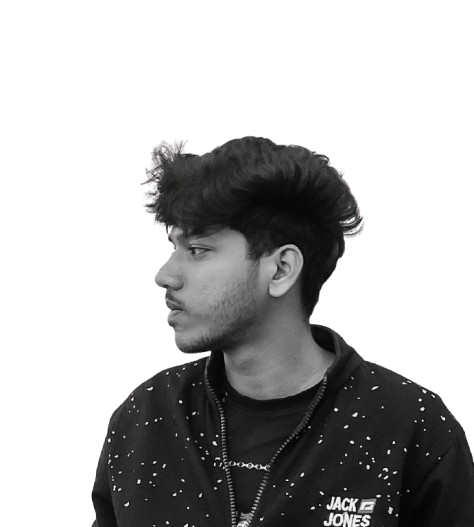
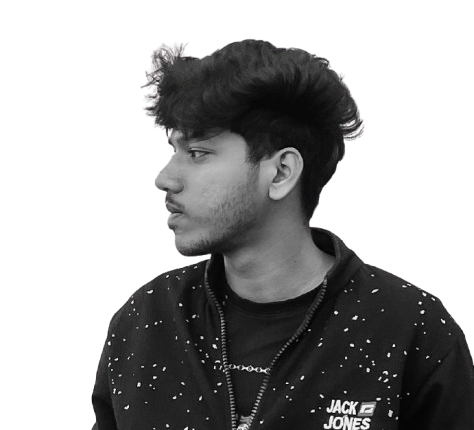
css fix

diff --git a/App.tsx b/App.tsx
@@ -1,5 +1,5 @@
 
-import React, { useEffect } from 'react';
+import React, { useEffect, useRef, useState } from 'react';
 import Navbar from './components/Navbar';
 import Hero from './sections/Hero';
 import About from './sections/About';
@@ -9,6 +9,9 @@ import ScrollReveal from './components/ScrollReveal';
 import Lenis from 'lenis';
 
 const App: React.FC = () => {
+  const [isHeaderVisible, setIsHeaderVisible] = useState(true);
+  const heroRef = useRef<HTMLElement>(null);
+
   useEffect(() => {
     const lenis = new Lenis({
       duration: 1.2,
@@ -25,8 +28,20 @@ const App: React.FC = () => {
 
     (window as any).lenis = lenis;
 
+    const handleScroll = () => {
+      if (heroRef.current) {
+        const heroHeight = heroRef.current.offsetHeight;
+        const scrollPosition = window.scrollY;
+        // Hide header as soon as we scroll past the hero section (minus some buffer)
+        setIsHeaderVisible(scrollPosition < heroHeight - 80);
+      }
+    };
+
+    window.addEventListener('scroll', handleScroll);
+
     return () => {
       lenis.destroy();
+      window.removeEventListener('scroll', handleScroll);
     };
   }, []);
 
@@ -70,7 +85,7 @@ const App: React.FC = () => {
 
       {/* Main Sections */}
       <main className="flex-1">
-        <section id="hero" className="min-h-[calc(100dvh-80px)] lg:h-auto flex items-center lg:items-start px-6 md:px-12 pt-16 lg:pt-0 pb-12 md:pb-24 overflow-hidden">
+        <section ref={heroRef} id="hero" className="min-h-[calc(100dvh-80px)] lg:h-auto flex items-center px-6 md:px-12 pt-16 lg:pt-0 pb-12 md:pb-24 overflow-hidden">
           <ScrollReveal className="w-full">
             <Hero />
           </ScrollReveal>
@@ -99,7 +114,7 @@ const App: React.FC = () => {
         <div className="flex gap-8">
           <a href="https://linkedin.com/in/zahirshaikhedu" target="_blank" className="hover:text-white transition-colors">LinkedIn</a>
           <a href="https://github.com/zahirshaikh" target="_blank" className="hover:text-white transition-colors">GitHub</a>
-          <a href="https://x.com/zahirshaikh" target="_blank" className="hover:text-white transition-colors">X</a>
+          <a href="https://x.com/zahirshaikh_" target="_blank" className="hover:text-white transition-colors">X</a>
         </div>
         <div className="text-center">
           &copy; {new Date().getFullYear()} Zahir Shaikh — .NET Fullstack Engineer

diff --git a/sections/Hero.tsx b/sections/Hero.tsx
@@ -2,9 +2,9 @@ import React from "react";
 
 const Hero: React.FC = () => {
   return (
-    <div className="w-full max-w-7xl mx-auto px-8 md:px-16 grid grid-cols-1 lg:grid-cols-2 items-center lg:items-end gap-12 lg:gap-8 pt-0 pb-10 lg:py-0">
+    <div className="w-full max-w-7xl mx-auto px-8 md:px-16 grid grid-cols-1 lg:grid-cols-2 items-center gap-12 lg:gap-8 pt-0 pb-10 lg:py-0">
       {/* Left Column: Text */}
-      <div className="flex flex-col lg:-mt-12 animate-in fade-in slide-in-from-left-8 duration-1000">
+      <div className="flex flex-col animate-in fade-in slide-in-from-left-8 duration-1000">
         <div className="space-y-1">
           <p className="text-[10px] uppercase tracking-[0.5em] text-black/40 font-semibold mb-4">
             Fullstack Engineer
@@ -33,7 +33,7 @@ const Hero: React.FC = () => {
       </div>
 
       {/* Right Column: Your Portrait */}
-      <div className="relative lg:-mt-12 w-full flex items-center justify-center lg:justify-end animate-in fade-in zoom-in-95 duration-1000 delay-300">
+      <div className="relative lg:-mt-10 w-full flex items-center justify-center lg:justify-end animate-in fade-in zoom-in-95 duration-1000 delay-300">
         <div className="relative w-full max-w-md lg:max-w-lg aspect-[3/4] overflow-hidden">
           <img
             src="pfp-nobg.png"

diff --git a/sections/Contact.tsx b/sections/Contact.tsx
@@ -38,7 +38,7 @@ const Contact: React.FC = () => {
         <div className="pt-20 flex justify-center gap-10 md:gap-16">
           <a href="https://linkedin.com/in/zahirshaikhedu" target="_blank" className="text-[12px] uppercase tracking-[0.4em] font-semibold text-white/50 hover:text-white transition-all">LinkedIn</a>
           <a href="https://github.com/zahirshaikh" target="_blank" className="text-[12px] uppercase tracking-[0.4em] font-semibold text-white/50 hover:text-white transition-all">GitHub</a>
-          <a href="https://x.com/zahirshaikh" target="_blank" className="text-[12px] uppercase tracking-[0.4em] font-semibold text-white/50 hover:text-white transition-all">X</a>
+          <a href="https://x.com/zahirshaikh_" target="_blank" className="text-[12px] uppercase tracking-[0.4em] font-semibold text-white/50 hover:text-white transition-all">X</a>
         </div>
       </div>
     </div>
